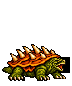
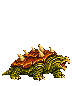
Use the fully redrawn turtle sprite with matching bounds

Changed region(s): [[0.0278, 0.5116, 0.9722, 0.9535]]

diff --git a/app.js b/app.js
@@ -10,7 +10,7 @@
     'black-wolf': { name: 'Чёрный волк', team: 'enemy', src: 'assets/mobs/black-wolf.png', displaySize: { width: 90, height: 108 }, padding: { top: 43, right: 3.6, bottom: 4.777778, left: 3.6 } },
     werewolf: { name: 'Оборотень', team: 'enemy', src: 'assets/mobs/werewolf.png', displaySize: { width: 90, height: 108 }, padding: { top: 4.777778, right: 9.6, bottom: 4.777778, left: 8.4 } },
     hound: { name: 'Гончая', team: 'enemy', src: 'assets/mobs/hound.png', displaySize: { width: 72, height: 86 }, padding: { top: 22.694444, right: 7.2, bottom: 4.777778, left: 6 } },
-    'alligator-snapping-turtle': { name: 'Грифовая черепаха', team: 'enemy', src: 'assets/mobs/alligator-snapping-turtle.png', displaySize: { width: 90, height: 108 }, padding: { top: 44.194444, right: 2.4, bottom: 4.777778, left: 2.4 } },
+    'alligator-snapping-turtle': { name: 'Грифовая черепаха', team: 'enemy', src: 'assets/mobs/alligator-snapping-turtle.png', displaySize: { width: 90, height: 108 }, padding: { top: 44, right: 2, bottom: 5, left: 2 } },
     'hill-giant': { name: 'Холмовой великан', team: 'enemy', src: 'assets/mobs/hill-giant.png', displaySize: { width: 90, height: 108 }, padding: { top: 4.777778, right: 10.8, bottom: 4.777778, left: 9.6 } },
     'giant-toad': { name: 'Гигантская жаба', team: 'enemy', src: 'assets/mobs/giant-toad.png', displaySize: { width: 90, height: 108 }, padding: { top: 44.194444, right: 2.4, bottom: 4.777778, left: 2.4 } },
     specter: { name: 'Спектр', team: 'enemy', src: 'assets/mobs/specter.png', displaySize: { width: 72, height: 86 }, padding: { top: 0, right: 8, bottom: 3, left: 7 } },
